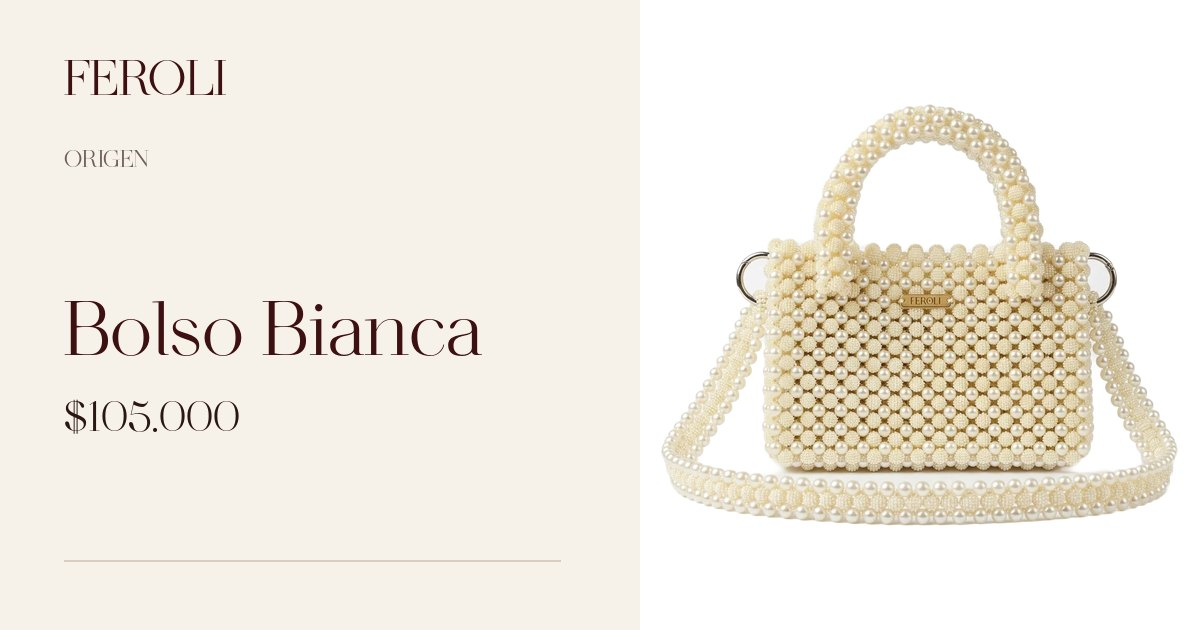
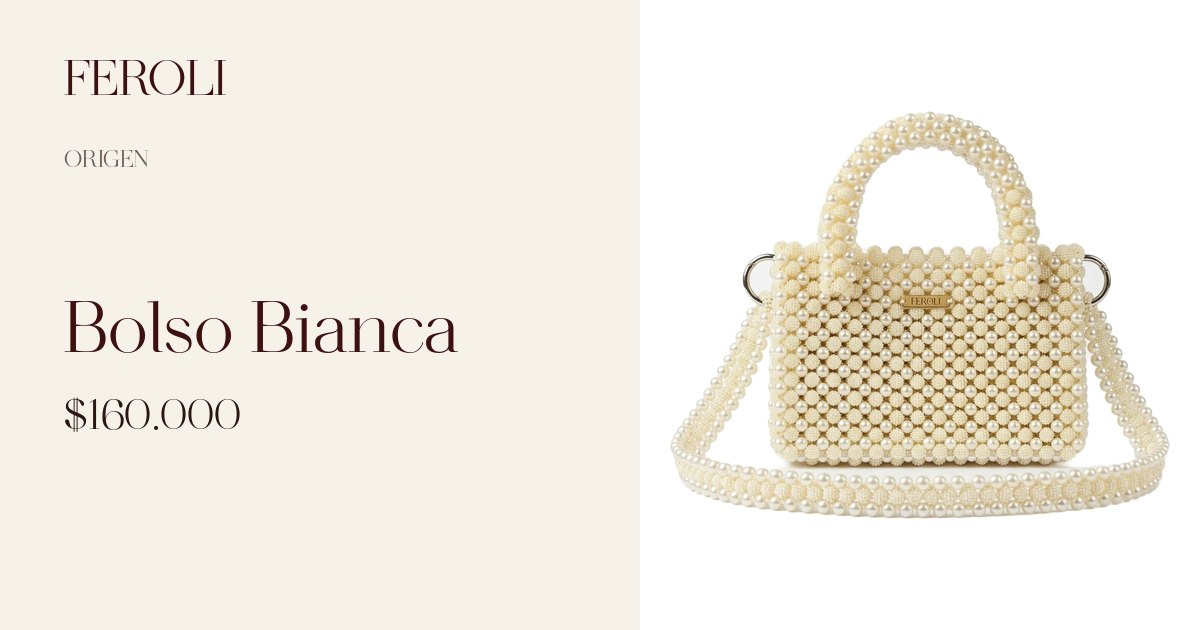
Update from Claude Design: product names/prices, measurements, detail images, WhatsApp routing

diff --git a/js/productos.js b/js/productos.js
@@ -14,6 +14,7 @@
         Si el archivo no existe todavía, la tarjeta muestra el bolso y el
         detalle en el hover.
       - colecciones: en qué bloques aparece y en qué orden.
+      - medidas: filas de la tabla de medidas [['Ancho', '19 cm'], ...].
       - precio: null muestra "Precio por confirmar" hasta que pongas el valor.
    ========================================================= */
 
@@ -37,7 +38,8 @@ window.PRODUCTOS = [
   {
     id: 'bianca',
     nombre: 'Bolso Bianca',
-    precio: 105000,
+    precio: 160000,
+    medidas: [['Ancho', '18 cm'], ['Alto', '13 cm (21 cm con asa)'], ['Capacidad', 'Cabe un iPhone Pro Max']],
     fotos: ['img/productos/bianca-1.webp', 'img/productos/bianca-2.webp', 'img/productos/bianca-3.jpg'],
     modelo: 'img/modelos/bianca.jpg',
     colecciones: { destacados: 2, dia: 3 },
@@ -46,6 +48,7 @@ window.PRODUCTOS = [
     id: 'alba-marfil',
     nombre: 'Totebag Alba Marfil',
     precio: 95000,
+    medidas: [['Ancho', '34 cm'], ['Alto', '22 cm'], ['Capacidad', 'Cabe un iPhone Pro Max']],
     fotos: ['img/productos/alba-marfil-1.webp', 'img/productos/alba-marfil-2.webp', 'img/productos/alba-marfil-4.jpg'],
     modelo: 'img/modelos/alba-marfil.jpg',
     colecciones: { destacados: 3, dia: 1 },
@@ -59,25 +62,27 @@ window.PRODUCTOS = [
     colecciones: { destacados: 4, noche: 1 },
   },
   {
-    id: 'aurora',
-    nombre: 'Bolso Aurora',
+    id: 'boreal',
+    nombre: 'Bolso Boreal',
     precio: null, // pendiente: escribe el precio, ej. 120000
+    medidas: [['Ancho', '19 cm'], ['Alto', '16 cm'], ['Largo', '10 cm'], ['Forro', 'Interno de satín'], ['Capacidad', 'Cabe un iPhone Pro Max']],
     fotos: ['img/productos/aurora-1.webp', 'img/productos/aurora-2.webp'],
     modelo: '',
     colecciones: { dia: 4 },
   },
   {
-    id: 'solis',
-    nombre: 'Bolso Solis',
-    precio: 98000,
+    id: 'coral-baguette',
+    nombre: 'Bolso Coral Baguette',
+    precio: 180000,
+    medidas: [['Ancho', '18 cm'], ['Alto', '10 cm (20 cm con asa)'], ['Largo', '12 cm'], ['Capacidad', 'Cabe un iPhone Pro']],
     fotos: ['img/productos/solis-1.webp', 'img/productos/solis-2.webp', 'img/productos/solis-3.jpg'],
     modelo: 'img/modelos/solis.jpg',
     colecciones: { noche: 2 },
   },
   {
-    id: 'coral-baguette',
-    nombre: 'Bolso Coral Baguette',
-    precio: 160000,
+    id: 'solis',
+    nombre: 'Bolso Solis',
+    precio: 98000, // confirmar
     fotos: ['img/productos/coral-baguette-1.webp', 'img/productos/coral-baguette-2.webp', 'img/productos/coral-baguette-3.jpg'],
     modelo: 'img/editorial/dia-002.jpg',
     colecciones: { noche: 3 },
@@ -86,6 +91,7 @@ window.PRODUCTOS = [
     id: 'terra',
     nombre: 'Bolso Terra',
     precio: 110000,
+    medidas: [['Ancho', '19 cm'], ['Alto', '15 cm'], ['Largo', '6 cm'], ['Capacidad', 'Cabe un iPhone Pro Max']],
     fotos: ['img/productos/terra-1.webp', 'img/productos/terra-2.webp'],
     modelo: '',
     colecciones: { noche: 4 },

diff --git a/css/styles.css b/css/styles.css
@@ -604,3 +604,22 @@ em { font-style: normal; }
 .especial__actions { display: flex; align-items: center; gap: 24px; flex-wrap: wrap; }
 .especial__more { font-size: 11px; letter-spacing: .16em; text-transform: uppercase; font-weight: 500; }
 @media (max-width: 820px) { .especial { grid-template-columns: 1fr; } }
+
+/* =========================================================
+   PÁGINA DE PRODUCTO — medidas, beneficios, características
+   ========================================================= */
+.pdp__specs, .pdp__block { display: grid; gap: 14px; margin-top: 18px; }
+.pdp__specs .eyebrow, .pdp__block .eyebrow { color: var(--vino); }
+.specs { margin: 0; border-top: 1px solid var(--vino); }
+.specs div { display: grid; grid-template-columns: 110px 1fr; gap: 16px; padding: 13px 0; border-bottom: 1px solid var(--linea); }
+.specs dt { font-size: 11px; letter-spacing: .16em; text-transform: uppercase; font-weight: 500; color: var(--tinta-60); }
+.specs dd { margin: 0; font-family: var(--serif); font-size: 19px; line-height: 1.2; color: var(--vino); font-variant-numeric: tabular-nums; }
+.pdp__benefits { list-style: none; margin: 0; padding: 0; display: grid; }
+.pdp__benefits li { display: grid; grid-template-columns: 34px 1fr; gap: 12px; padding: 14px 0; border-bottom: 1px solid var(--linea); }
+.pdp__benefits li:first-child { border-top: 1px solid var(--linea); }
+.pdp__benefits .n { font-family: var(--serif); font-size: 15px; color: var(--dorado); padding-top: 2px; }
+.pdp__benefits strong { display: block; font-family: var(--serif); font-weight: 400; font-size: 20px; color: var(--vino); line-height: 1.2; }
+.pdp__benefits div span { font-size: 13px; color: var(--tinta-60); }
+.pdp__chars { list-style: none; margin: 0; padding: 0; display: flex; flex-wrap: wrap; gap: 8px; }
+.pdp__chars li { font-size: 12px; letter-spacing: .04em; color: var(--vino); padding: 8px 14px; border: 1px solid var(--linea); border-radius: 999px; }
+.pdp__chars li::before { content: '✦'; color: var(--dorado); margin-right: 8px; font-size: 10px; }

diff --git a/index.html b/index.html
@@ -102,7 +102,7 @@ M16410 3930 l0 -30 210 0 210 0 0 -1860 0 -1860 -210 0 -210 0 0 -30 0 -30
   <!-- HERO -->
   <section class="hero" id="inicio">
     <div class="hero__media">
-      <img src="img/editorial/hero.jpg" alt="Modelo sentada de noche en una terraza con el bolso FEROLI Coral Baguette" fetchpriority="high">
+      <img src="img/editorial/hero.jpg" alt="Modelo sentada de noche en una terraza con el bolso FEROLI Solis" fetchpriority="high">
     </div>
     <div class="hero__veil"></div>
     <div class="hero__content">
@@ -271,6 +271,24 @@ M16410 3930 l0 -30 210 0 210 0 0 -1860 0 -1860 -210 0 -210 0 0 -30 0 -30
       <button class="pill pdp__cta" data-add>Agregar al carrito</button>
       <a class="pdp__wa u-line" target="_blank" rel="noopener">o pregúntanos por WhatsApp ↗</a>
       <p class="pdp__note">El pedido se confirma por WhatsApp: ahí coordinamos pago y entrega.</p>
+      <div class="pdp__specs"></div>
+      <div class="pdp__block">
+        <p class="eyebrow">Por qué llevarla</p>
+        <ul class="pdp__benefits">
+          <li><span class="n">01</span><div><strong>Eleva tu outfit</strong><span>Un solo detalle que cambia todo el look.</span></div></li>
+          <li><span class="n">02</span><div><strong>Diseñado para estilizar</strong><span>Sus proporciones acompañan tus prendas sin competir con ellas.</span></div></li>
+          <li><span class="n">03</span><div><strong>Formal o informal</strong><span>Del jean y la camisa al vestido de noche.</span></div></li>
+        </ul>
+      </div>
+      <div class="pdp__block">
+        <p class="eyebrow">Características</p>
+        <ul class="pdp__chars">
+          <li>Resistente al uso diario</li>
+          <li>Tejido a mano, cuenta por cuenta</li>
+          <li>Hecho en Colombia</li>
+          <li>Placa metálica FEROLI</li>
+        </ul>
+      </div>
       <div class="pdp__more">
         <p class="eyebrow">También en ORIGEN</p>
         <div class="pdp__related"></div>

diff --git a/p/boreal.html b/p/boreal.html
@@ -1,13 +1,13 @@
 <!doctype html>
 <html lang="es"><head><meta charset="utf-8">
-<title>Bolso Aurora · FEROLI</title>
+<title>Bolso Boreal · FEROLI</title>
 <meta name="viewport" content="width=device-width, initial-scale=1">
 <meta property="og:type" content="product">
 <meta property="og:site_name" content="FEROLI">
-<meta property="og:title" content="Bolso Aurora · FEROLI ORIGEN">
+<meta property="og:title" content="Bolso Boreal · FEROLI ORIGEN">
 <meta property="og:description" content="Tejido a mano, cuenta por cuenta. Una forma de llevar lo que eres.">
-<meta property="og:image" content="https://feroli.vercel.app/img/og/aurora.jpg">
+<meta property="og:image" content="https://feroli.vercel.app/img/og/boreal.jpg">
 <meta property="og:image:width" content="1200"><meta property="og:image:height" content="630">
 <meta name="twitter:card" content="summary_large_image">
-<script>var q=(location.hash||'').slice(1);location.replace(q?'../pedido.html#aurora.'+q:'../#pieza-aurora');</script>
+<script>var q=(location.hash||'').slice(1);location.replace(q?'../pedido.html#boreal.'+q:'../#pieza-boreal');</script>
 </head><body style="background:#F6F1E9"></body></html>

diff --git a/js/main.js b/js/main.js
@@ -300,6 +300,11 @@
     pdp.querySelector('.pdp__price').textContent = precio(p.precio);
     pdp.querySelector('.pdp__cta').dataset.add = p.id;
     pdp.querySelector('.pdp__wa').href = waPieza(p);
+    const specs = pdp.querySelector('.pdp__specs');
+    specs.innerHTML = p.medidas && p.medidas.length ? `
+      <p class="eyebrow">Medidas</p>
+      <dl class="specs">${p.medidas.map(([k, v]) => `<div><dt>${esc(k)}</dt><dd>${esc(v)}</dd></div>`).join('')}</dl>` : '';
+    specs.hidden = !specs.innerHTML;
     const labels = ['Vista completa', 'Detalle de cuentas y placa', 'Con modelo', 'Otra vista', 'Otra vista'];
     const fotos = p.fotos.slice(0, 5);
     gTrack.innerHTML = fotos.map((src, i) => `

diff --git a/README.md b/README.md
@@ -26,7 +26,7 @@ si usas otro, cámbialo en `js/productos.js` (`sitio`) y busca/reemplaza `feroli
 | `img/modelos/` | `[pieza].jpg` modelo con el bolso | tarjetas (modelo → bolso en hover) |
 | `img/editorial/` | `hero.jpg`, `dia-002.jpg`, `filosofia.jpg`, `cierre.jpg` | hero, Día, Filosofía, cierre |
 
-Pendiente: precios de Aurora, Ámbar y Valentine (`precio: null` en `js/productos.js` muestra "Precio por confirmar").
+Pendiente: precios de Boreal, Ámbar y Valentine; medidas de Aura, Nox, Solis, Ámbar y Valentine (campo `medidas` en `js/productos.js`).
 
 ## Desplegar
 - Vercel: "Add New → Project", importa la carpeta (o `vercel` desde la terminal). Sin build command; output = raíz.
